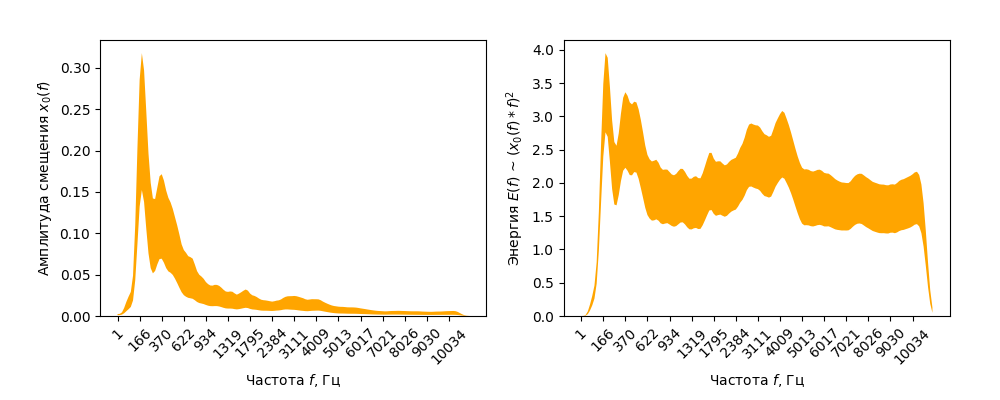
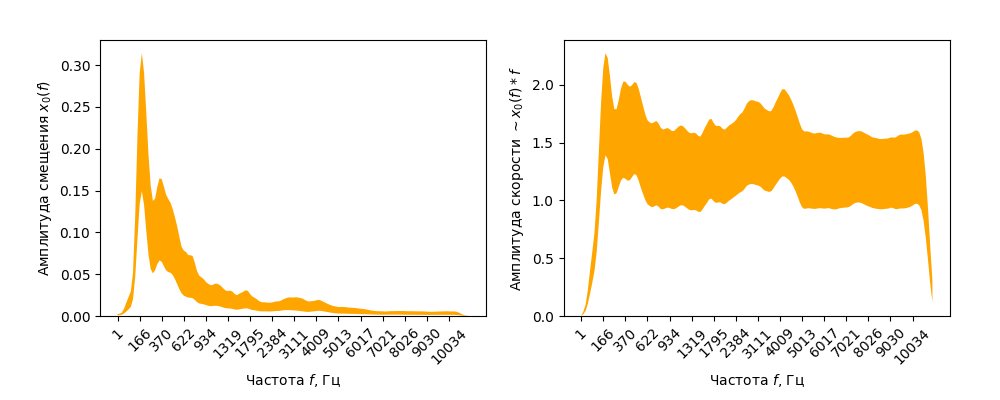
energy of frequency

diff --git a/diplom-latex/tex/31-chapter-one.tex b/diplom-latex/tex/31-chapter-one.tex
@@ -326,6 +326,25 @@ $k$ и $C$ - некоторые константы ($k>0$). \cite{Umnyashkin}
 квадрат модуля спектральной компоненты $\mathrm{spec}[m,k]$, поскольку спектр получен с помощью линейного преобразования от сигнала 
 $x(t)$ - звукового давления микрофона от времени.
 
+Стоит также осветить вопрос зависимости энергии звуковой волны от частоты. Поскольку в колебаниях и волнах энергия перетекает между потенциальной и кинетической,
+полная энергия колебаний равна либо максимальной потенциальной, либо максимальной кинетической. 
+Максимальная кинетическая энергия пропорциональна квадрату амплитуды скорости: $E \sim \dot{x}_0^2$. 
+В синусоидальных колебаниях и волнах амплитуда скорости на заданной частоте пропорциональна амплитуде смещения, 
+умноженной на частоту: $\dot{x}_0 = x_0 \cdot \omega = x_0 \cdot 2\pi f$. 
+Отсюда, энергия колебаний $E \sim (x_0 \cdot f)^2$.
+
+Если в аудиозаписи человеческого разговора посчитать для каждой частоты среднюю амплитуду смещения и среднюю амплитуду скорости (Рисунок \ref{fig:spectrum_mean}), 
+можно увидеть, что амплитуда скорости распределена почти равномерно по частотам. Это означает, что человек при разговоре производит звук, 
+энергия которого распределена по частотам почти равномерно. Поэтому следует ожидать, 
+что и чувствительность слуха к изменению энергии (а значит и апмлитуды скорости) будет почти одинакова на разных частотах.
+
+\begin{figure}
+  \centering
+  \includegraphics[width=0.9\linewidth]{figures/spectrum_mean}
+  \caption{Средние амплитуды смещения и скорости на разных частотах в аудиосигнале}
+  \label{fig:spectrum_mean}
+\end{figure}
+
 
 Теперь рассмотрим используемые в технике и акустике \textbf{шкалы частот}:
 
@@ -527,6 +546,9 @@ X(t, f) = \int_{-\infty}^\infty x(\tau) w(\tau - t) e^{-2\pi i f \tau} d\tau
 
 
 \section{Устойчивость к трансформациям и артефактам}
+
+В данном разделе рассмотрим вопрос устойчивости вокодеров к трансформацим спектрограммы и артефактам, которые появляются в результате работы нейросетей.
+
 \begin{markdown}
  - трансформации спектрограммы, устойчивость вокодера к трансформациям
    - растяжение\сжатие по времени

diff --git a/diplom-latex/tex/32-chapter-two.tex b/diplom-latex/tex/32-chapter-two.tex
@@ -3,15 +3,7 @@
 
 \section{Теоретическое обоснование алгоритма}
 
-\textbf{Энергия от частоты}, нужно умножить амплитуду на $f$.
-Отметим также, что \textbf{}
 
-\begin{figure}
-  \centering
-  \includegraphics[width=0.9\linewidth]{figures/spectrum_mean}
-  \caption{Распределение амплитуды и энергии по частоте. Энергия пропорциональна квадрату амплитуды скорости}
-  \label{fig:spectrum_mean}
-\end{figure}
 
 \begin{markdown}
  - Оконное фурье через свертку
